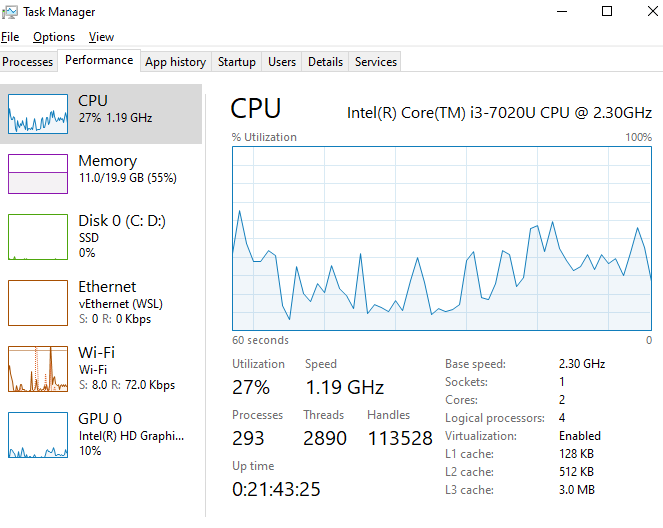
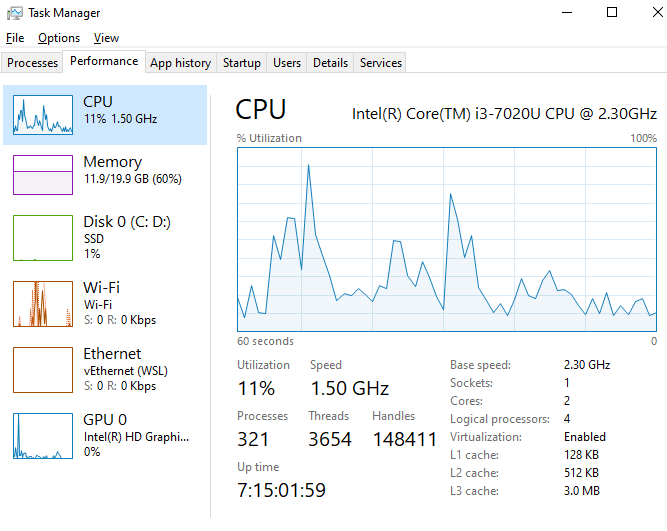
upda1

diff --git a/src/lib/posts/tien-trinh&luong.md b/src/lib/posts/tien-trinh&luong.md
@@ -14,21 +14,63 @@ categories: ["công nghệ", "hệ thống phân tán"]
 
 ![Ảnh phân tán](/images/cpux.png)
 
-**CPU:** Intel Core i3-7020U @ 2.30GHz  
-- **Cores:** 2 | **Logical Processors:** 4 (nhờ Hyper-Threading)  
-- **Threads hiện tại:** ~2890 | **Processes:** 293  
-- **Utilization:** ~27% | **Speed:** 1.19 GHz
+## 🖥 1. CPU – Intel Core i3-7020U @ 2.30GHz
 
-**RAM:** 19.9 GB (Sử dụng 11.0 GB - 55%)  
-**GPU:** Intel HD Graphics 620 (Sử dụng 10%)  
-**Disk:** SSD
+- **Số nhân / luồng**: 2 cores / 4 threads  
+- **Tốc độ thực tế**: ~1.5 GHz  
+- **Ảo hóa**: Enabled  
 
-**Nhận định:**  
-- Hệ thống tốt cho lập trình, học hỏi, đa nhiệm.  
-- Số luồng/tiến trình lớn nhờ context switching.  
-- GPU và CPU đủ dùng cho các tác vụ nhẹ.
+### ➤ Đánh giá:
+- Không phù hợp xử lý song song mạnh.
+- Có thể dùng làm **worker node nhẹ** trong hệ phân tán.
+- Phù hợp chạy các service nhẹ, log, monitor hoặc client node.
 
 ---
+
+![Ảnh phân tán](/images/memory.png)
+
+## 🧠 2. RAM – 20.0 GB DDR4 (2400 MHz)
+
+- **Đang dùng**: ~11.8 GB (60%)
+- **RAM nén**: 770 MB  
+- **Cấu hình**: 2 thanh 4GB + 1 thanh 16GB (không đồng đều)
+
+### ➤ Đánh giá:
+- Dung lượng RAM **tốt** để mô phỏng hệ thống phân tán nhiều container.
+- Phù hợp chạy Docker, Kubernetes (minikube), hoặc thử nghiệm Redis, Kafka.
+- Có thể xử lý **đa nhiệm** tốt trong môi trường phát triển.
+
+---
+![Ảnh phân tán](/images/gpux.png)
+
+## 🎮 3. GPU – Intel HD Graphics 620 (iGPU)
+
+- **Shared memory**: 0.3 / 9.9 GB  
+- **Không hỗ trợ tính toán GPU (CUDA, OpenCL)**
+
+### ➤ Đánh giá:
+- Không phù hợp cho hệ thống phân tán cần **GPU compute** như AI/ML.
+- Chỉ hỗ trợ hiển thị cơ bản, phù hợp dashboard, UI nhẹ.
+
+---
+
+## 📊 Tổng kết
+
+| Thành phần | Đánh giá | Vai trò khuyên dùng |
+|------------|----------|----------------------|
+| **CPU** | ⭐⭐☆☆☆ | Node phụ, xử lý nhẹ |
+| **RAM** | ⭐⭐⭐⭐☆ | Tốt cho mô phỏng nhiều service |
+| **GPU** | ⭐☆☆☆☆ | Không phù hợp AI/ML |
+
+---
+
+##  Phù hợp với:
+- Học tập, mô phỏng hệ thống phân tán nhẹ.
+- Phát triển microservices, Docker, Kubernetes (minikube).
+
+##  Không phù hợp với:
+- Xử lý Big Data, AI, hệ thống GPU cluster.
+
 
 ## 2. 12 Bài toán phổ biến trong CNTT có sử dụng đa luồng/đa tiến trình
 
@@ -51,8 +93,9 @@ categories: ["công nghệ", "hệ thống phân tán"]
 
 ## 3. Khi nào dùng Thread, khi nào dùng Process?
 
-![Ảnh phân tán](/images/distribu-system.png)
-
+![Ảnh phân tán](/images/vdthread-process.jpg)
+![Ảnh phân tán](/images/vdthread-process2.jpg)
+![Ảnh phân tán](/images/vdthread-process3.jpg)
 
 
 | Trường hợp                 | Thread                        | Process                         | Cả hai                                      |
